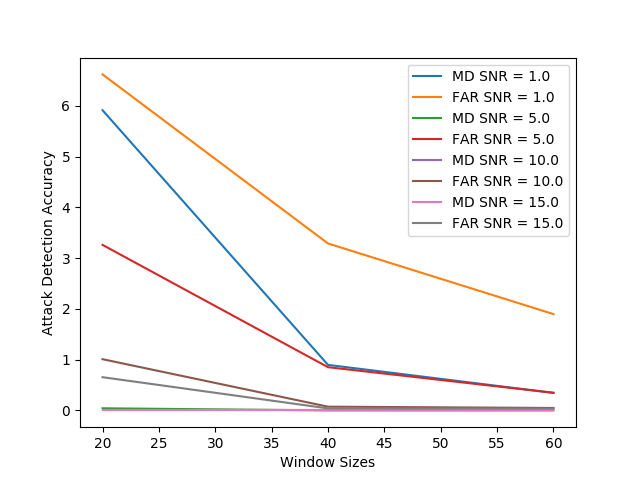
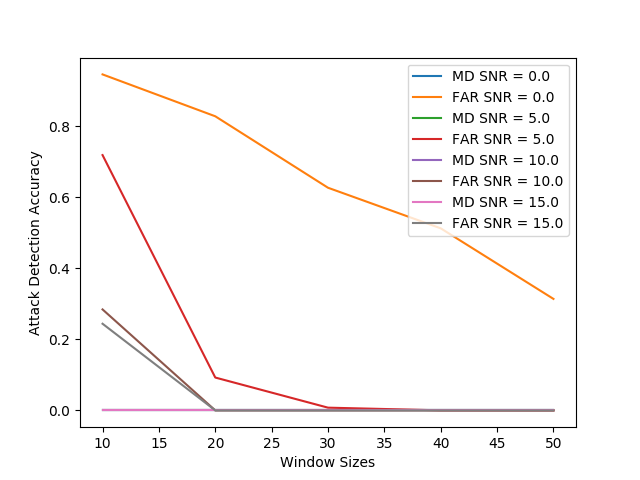
NN Decoder MD FAR Fixed and generated

diff --git a/ML_decoder/trainer_shuffle.py b/ML_decoder/trainer_shuffle.py
@@ -12,7 +12,7 @@ from keras.engine.topology import Layer
 import matplotlib.pyplot as plt
 import tensorflow as tf
 
-window = 50
+window = 40
 
 def loss_fn(y_true, y_pred):
     return 1/np.log(2) * keras.losses.binary_crossentropy(y_true, y_pred)
@@ -69,14 +69,14 @@ def CONV_Model(time_steps):
     model.add(Dense(1, activation='sigmoid'))
     return model
 
-def fit_model(X, Y, bs, nb_epoch, model):
+def fit_model(X, Y, X_val, Y_val, bs, nb_epoch, model):
     y = Y
 
     scale = 2
     it = len(X)*1.0/bs * scale
     decay = 1/it
 
-    class_weight = {0: 2., 1: 1.}
+    class_weight = {0: 2.0, 1: 1.}
 
 
     optim = keras.optimizers.Adam(lr=1e-3, beta_1=0.9, beta_2=0.999, epsilon=1e-8, decay=decay, amsgrad=False)
@@ -89,21 +89,29 @@ def fit_model(X, Y, bs, nb_epoch, model):
     callbacks_list = [csv_logger]
 
     hist = model.fit(X, y, epochs=nb_epoch, batch_size=bs, class_weight=class_weight, verbose=1, validation_split=0.33, shuffle=True, callbacks=callbacks_list)
-    # l, acc, fp, fn = model.evaluate(X_val, Y_val, batch_size=bs)
-    # fp = fp * bs / len(X_val)
-    # fn = fn * bs / len(X_val)
-    # print(fp, fn)
-    return hist
+    p = model.predict(X_val, batch_size=bs)
+    p_0 = p[Y_val==0]
+    p_0 = np.sort(p_0.reshape(-1))
+    l = int(0.001 * len(p_0)) + 1
+    thresh = p_0[-l]
+    md = (l)*1.0/(len(p_0))
+    p_1 = p[Y_val==1]
+    false_alarms = np.sum(p_1<thresh)*1.0/(np.sum(Y_val==1))
+    print("false_alarms -> ", false_alarms, "mis_det -> ", md)
+    return false_alarms, md
 
 
 def plot_SNR():
-    SNRlist = [1.0, 5.0, 10.0, 15.0]
-    windowlist = [20, 40, 60]
+    create_csv('results_nn.csv')
+
+    SNRlist = [0.0, 5.0, 10.0, 15.0]
+    windowlist = [10, 20, 30, 40, 50]
     for snr in SNRlist:
         fprlist = []
         fnrlist = []
         for w in windowlist:
             X, Y, A = gen_and_process(p=0.5, SNR=snr, N=100000, window=w)
+            X_val, Y_val, A_val = gen_and_process(p=0.5, SNR=snr, N=50000, window=w)
             Y = Y[:, -1:]
             indices = np.arange(len(X))
             np.random.shuffle(indices)
@@ -113,15 +121,23 @@ def plot_SNR():
             A = A[indices]
 
             model = CONV_Model(time_steps=w)
-            h = fit_model(X, A, bs=512, nb_epoch=5, model=model)
-            fpr_min = np.min(h.history['val_fpr'])
-            fnr_min = np.min(h.history['val_fnr'])
-            fprlist.append(fpr_min)
-            fnrlist.append(fnr_min)
+
+            fa, md = fit_model(X, A,  X_val, A_val, bs=512, nb_epoch=5, model=model)
+            
+            fprlist.append(md)
+            fnrlist.append(fa)
+
+            res = [snr, w, 0.5, md, fa]
+
+            with open('results_nn.csv', 'a') as myFile:
+                writer = csv.writer(myFile)
+                writer.writerow(res)
+
         lab_md = "MD SNR = " + str(snr)
         lab_fa = "FAR SNR = " + str(snr)
         plt.plot(windowlist, fprlist, label=lab_md)
         plt.plot(windowlist, fnrlist, label=lab_fa)
+
     plt.xlabel("Window Sizes")
     plt.ylabel("Attack Detection Accuracy")
     plt.legend()
@@ -158,7 +174,7 @@ def main():
     # fit_model(X, Y, bs=512, nb_epoch=10, model=model)
 
     ## For Attack Detection
-    fit_model(X, A, bs=512, nb_epoch=10, model=model)
+    fit_model(X, A, X_val, A_val, bs=512, nb_epoch=10, model=model)
 
     # np.save('input_symbols', Y)
     # Y_cap = model.predict(X, batch_size=1024)

diff --git a/ML_decoder/utils.py b/ML_decoder/utils.py
@@ -1,5 +1,14 @@
 import numpy as np
 from keras import backend as K
+import csv
+
+def create_csv(fname, header=None):
+    if header is None:
+        header = ["SNR", "Window", "Prob", "MD", "FAR"]
+
+    with open(fname, 'w') as myFile:
+        writer = csv.writer(myFile)
+        writer.writerow(header)
 
 def gen_data(p, SNR, N, A=1, h1=1.0, h2=1.0):
 	R = 10**(0.05*SNR)
